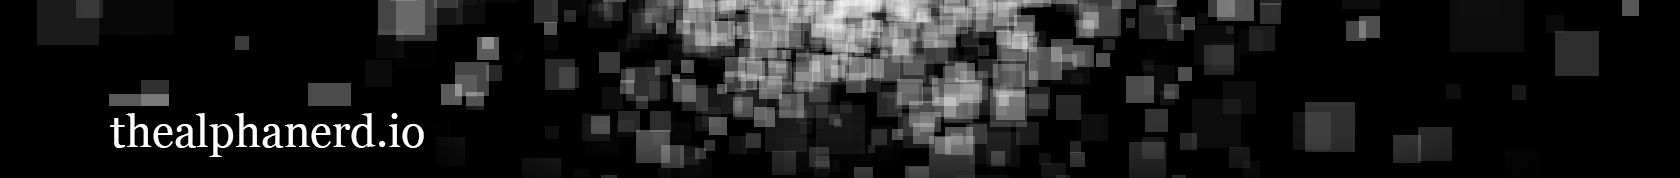
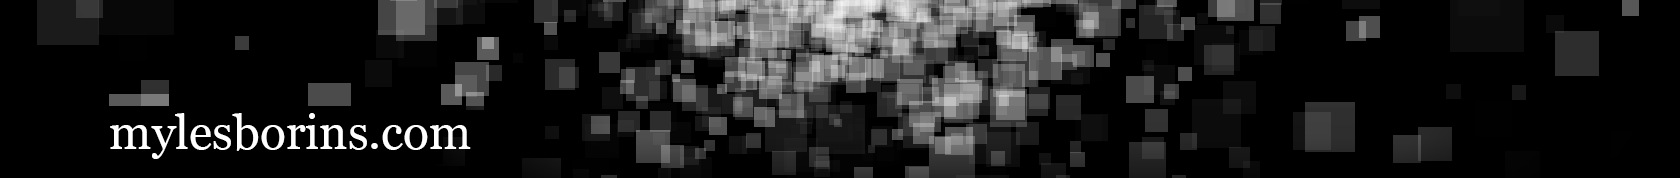
It now mylesborins.com

Changed region(s): [[0.0619, 0.618, 0.2786, 0.8708]]

diff --git a/content/projects/blackbox.md b/content/projects/blackbox.md
@@ -27,9 +27,9 @@ The Black Box is a site based installation that allows users to create unique so
 # more videos
 
 <div class="videoWrapper">
-    <iframe src="//player.vimeo.com/video/54842728" width="500" height="281" frameborder="0" webkitallowfullscreen mozallowfullscreen allowfullscreen></iframe> <p><a href="http://vimeo.com/54842728">The Blackbox Final Teaser</a> from <a href="http://vimeo.com/thealphanerd">TheAlphaNerd</a> on <a href="https://vimeo.com">Vimeo</a>.</p>
+    <iframe src="//player.vimeo.com/video/54842728" width="500" height="281" frameborder="0" webkitallowfullscreen mozallowfullscreen allowfullscreen></iframe> <p><a href="http://vimeo.com/54842728">The Blackbox Final Teaser</a> from <a href="http://vimeo.com/MylesBorins">TheAlphaNerd</a> on <a href="https://vimeo.com">Vimeo</a>.</p>
 </div>
 
 <div class="videoWrapper">
-    <iframe src="//player.vimeo.com/video/54755658" width="500" height="281" frameborder="0" webkitallowfullscreen mozallowfullscreen allowfullscreen></iframe> <p><a href="http://vimeo.com/54755658">The Black Box: Teaser</a> from <a href="http://vimeo.com/thealphanerd">TheAlphaNerd</a> on <a href="https://vimeo.com">Vimeo</a>.</p>
+    <iframe src="//player.vimeo.com/video/54755658" width="500" height="281" frameborder="0" webkitallowfullscreen mozallowfullscreen allowfullscreen></iframe> <p><a href="http://vimeo.com/54755658">The Black Box: Teaser</a> from <a href="http://vimeo.com/MylesBorins">TheAlphaNerd</a> on <a href="https://vimeo.com">Vimeo</a>.</p>
 </div>

diff --git a/content/posts/deepDream.md b/content/posts/deepDream.md
@@ -28,7 +28,7 @@ docker run -d -p 443:8888 -e "PASSWORD=password" -v $PWD:/src ryankennedyio/deep
 
 **I recently stumbled across [clouddream][clouddream] which has some really amazing examples of how to turn deep dream into a service** 
 
-If you have any questions or would like something expanded on please tweet [@thealphanerd][twitter] or DM me.
+If you have any questions or would like something expanded on please tweet [@MylesBorins][twitter] or DM me.
 
 # Getting started is a drag
 
@@ -54,7 +54,7 @@ The Creator of this repo wrote a great [blog post][ryan-blog] which goes quite a
 [dockerhub]: https://hub.docker.com/
 [dockerhub-repo]: https://registry.hub.docker.com/u/ryankennedyio/deepdream/
 [github-repo]: https://github.com/ryankennedyio/deep-dream-generator
-[twitter]: https://twitter.com/thealphanerd
+[twitter]: https://twitter.com/MylesBorins
 [ryan-blog]: http://ryankennedy.io/running-the-deep-dream/
 
 [clouddream]: https://github.com/VISIONAI/clouddream/

diff --git a/content/posts/from-faust-to-webaudio.md b/content/posts/from-faust-to-webaudio.md
@@ -462,4 +462,4 @@ I have at least one memory leak that I know of, this should really be taken care
 ### allow for signals to control parameters
 You can't do FM synthesis without being able to connect an lfo to the frequency of another oscillator.  You also can't make a dubstep wobble without being able to connect an amplitude to a cutoff frequency on a low pass filter.  This will be a must have for any Faust compiled unit generator to be a first class citizen.
 
-# use the force, read the [source](https://www.github.com/thealphanerd/faust2webaudio)
+# use the force, read the [source](https://www.github.com/MylesBorins/faust2webaudio)

diff --git a/content/posts/letsencrypt.md b/content/posts/letsencrypt.md
@@ -32,7 +32,7 @@ The server I was working with is running Debian Wheezy and my web content is all
 $ ./letsencrypt-auto --apache
 Checking for new version...
 Requesting root privileges to run letsencrypt...
-   sudo /home/thealphanerd/.local/share/letsencrypt/bin/letsencrypt --apache
+   sudo /home/MylesBorins/.local/share/letsencrypt/bin/letsencrypt --apache
 The apache plugin is not working; there may be problems with your existing configuration.
 The error was: NotSupportedError('Apache plugin support requires libaugeas0 and augeas-lenses version 1.2.0 or higher, please make sure you have you have those installed.',)
 ```

diff --git a/content/projects/faust2webaudio.md b/content/projects/faust2webaudio.md
@@ -18,7 +18,7 @@ A compiler to take code written in the faust signal processing language and crea
  * do some magic with sed and wrap js
  * profit!
  
-You can find the source on [github](http://www.github.com/thealphanerd/faust2webaudio) and a slide deck with more information 
+You can find the source on [github](http://www.github.com/MylesBorins/faust2webaudio) and a slide deck with more information 
 You can find an in depth blog post about this project [here](/blog/from-faust-to-webaudio)
 
 If you want to learn more about Faust check out [faust.grame.fr](http://faust.grame.fr)

diff --git a/content/projects/theremax.md b/content/projects/theremax.md
@@ -13,6 +13,6 @@ A fully featured cross platform native application that lets you control sound a
 
 Theremax has only been tested on OSX 10.8 at the moment, but should be able to be compiled with a little bit of love on linux or windows. (I always take pull requests)
 
-You can find the github repository [here](https://www.github.com/thealphanerd/theremax)
+You can find the github repository [here](https://www.github.com/MylesBorins/theremax)
 
 There is a site dedicated to more thorough documentation that can be found [here](https://ccrma.stanford.edu/~mborins/256a/theremax/)

diff --git a/README.md b/README.md
@@ -1,4 +1,4 @@
-#thealphanerd.io
+#MylesBorins.com
 ===============
 
 src for my current personal website.  Made with CabinJS
@@ -7,12 +7,12 @@ It is deployed using git hooks isn't that neat?
 
 \#!/bin/sh
 
-GIT_WORK_TREE=/some/path/thealphanerd.io 
-GIT_DIR=/some/path/thealphanerd.io/.git
+GIT_WORK_TREE=/some/path/MylesBorins.com 
+GIT_DIR=/some/path/MylesBorins.com/.git
 
 \# not sure this is neccessary but seems to make it work
 
-cd /some/path/thealphanerd.io 
+cd /some/path/MylesBorins.com 
 
 git pull
 

diff --git a/content/projects/automagicmusicmaker.md b/content/projects/automagicmusicmaker.md
@@ -61,7 +61,7 @@ These are just some of the nifty keyboards you can make
     <div style="float:left; width:50%;" id="bottomrightpiano"></div>
 </div>
 
-You can check out the source code on [github](https://github.com/thealphanerd/piano)
+You can check out the source code on [github](https://github.com/MylesBorins/piano)
 
 <script src="/scripts/jquery/jquery.min.js"></script>    
 <script src="/scripts/automm/flocking.min.js"></script>    

diff --git a/content/posts/git-hooks.md b/content/posts/git-hooks.md
@@ -32,7 +32,7 @@ remote: error: other way.
 remote: error:
 remote: error: To squelch this message and still keep the default behavior, set
 remote: error: 'receive.denyCurrentBranch' configuration variable to 'refuse'.
-To use@thealphanerd.io:some/dir/thealphanerd.io/.git
+To use@MylesBorins.com:some/dir/MylesBorins.com/.git
 ! [remote rejected] master -> master (branch is currently checked out)
 ```
 ### double down with a bare repo

diff --git a/content/pages/about.md b/content/pages/about.md
@@ -1,5 +1,5 @@
 {
-  title: "thealphanerd.io | about",
+  title: "MylesBorins.com | about",
   type: "about"
 }
 # code | music | art
@@ -13,4 +13,4 @@ he graduated with a Master of Music Science and Technology from c.c.r.m.a.
 
 a.k.a the center for computer research in music and acoustics 
 
-you can find his cv as a pdf [here](http://thealphanerd.io/cv.pdf)
+you can find his cv as a pdf [here](http://MylesBorins.com/cv.pdf)
